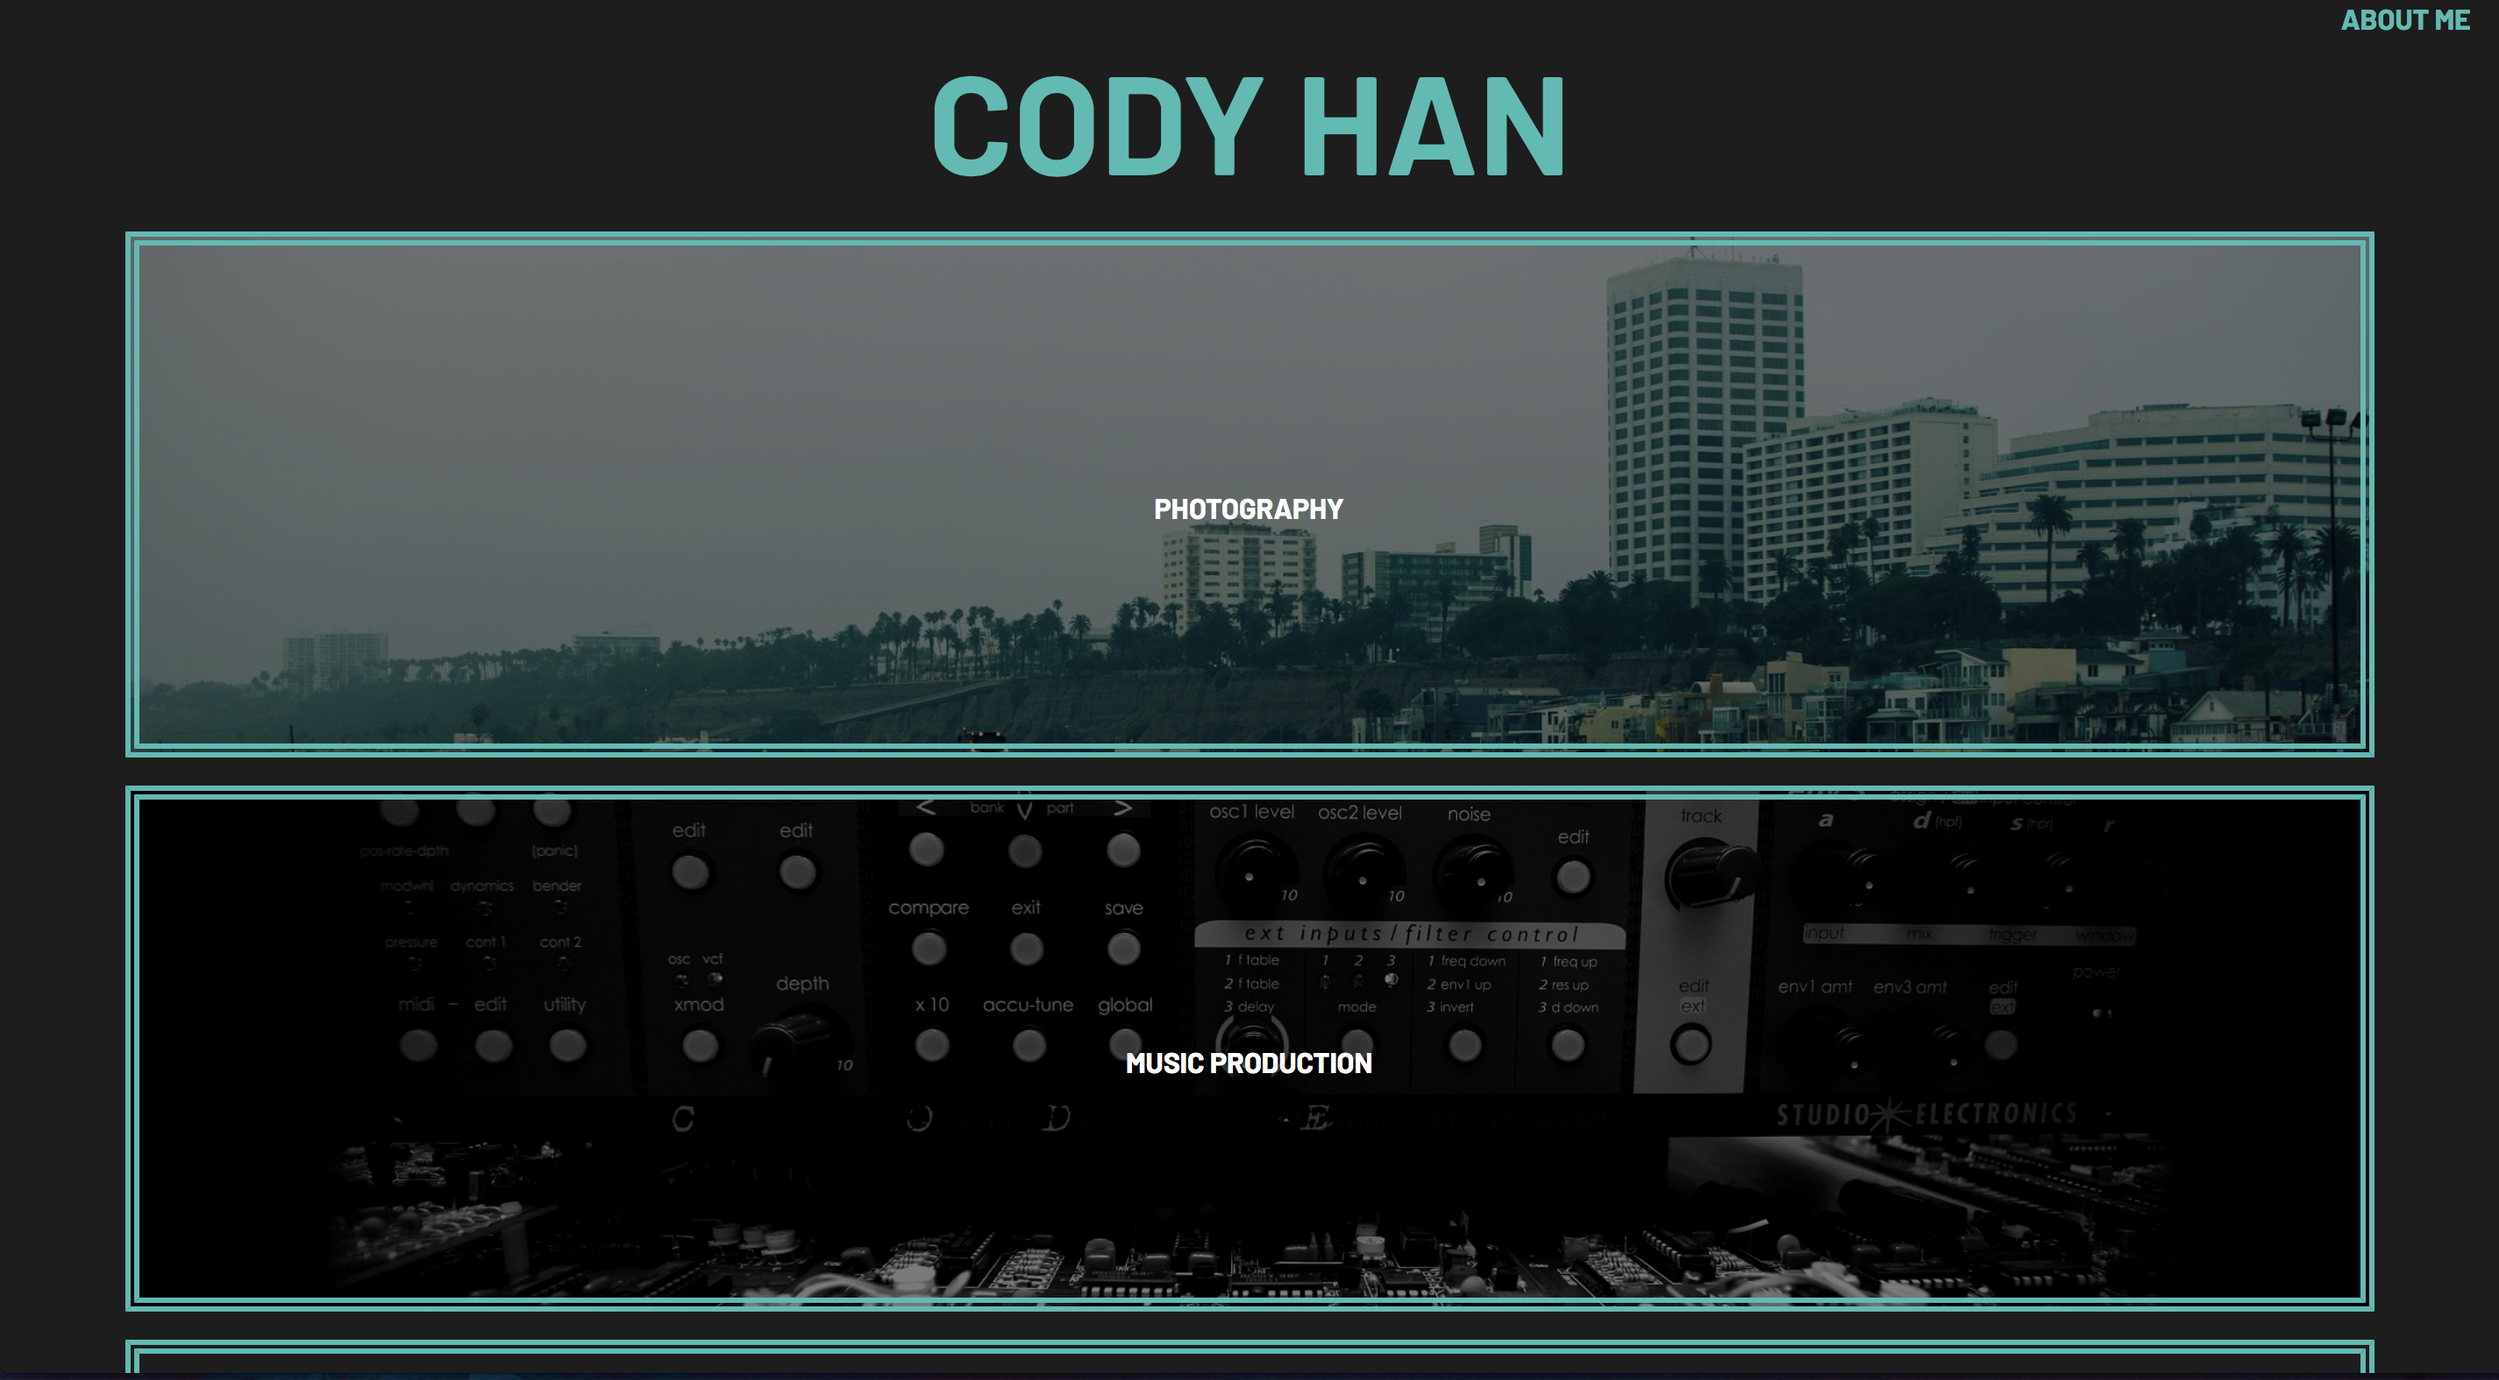
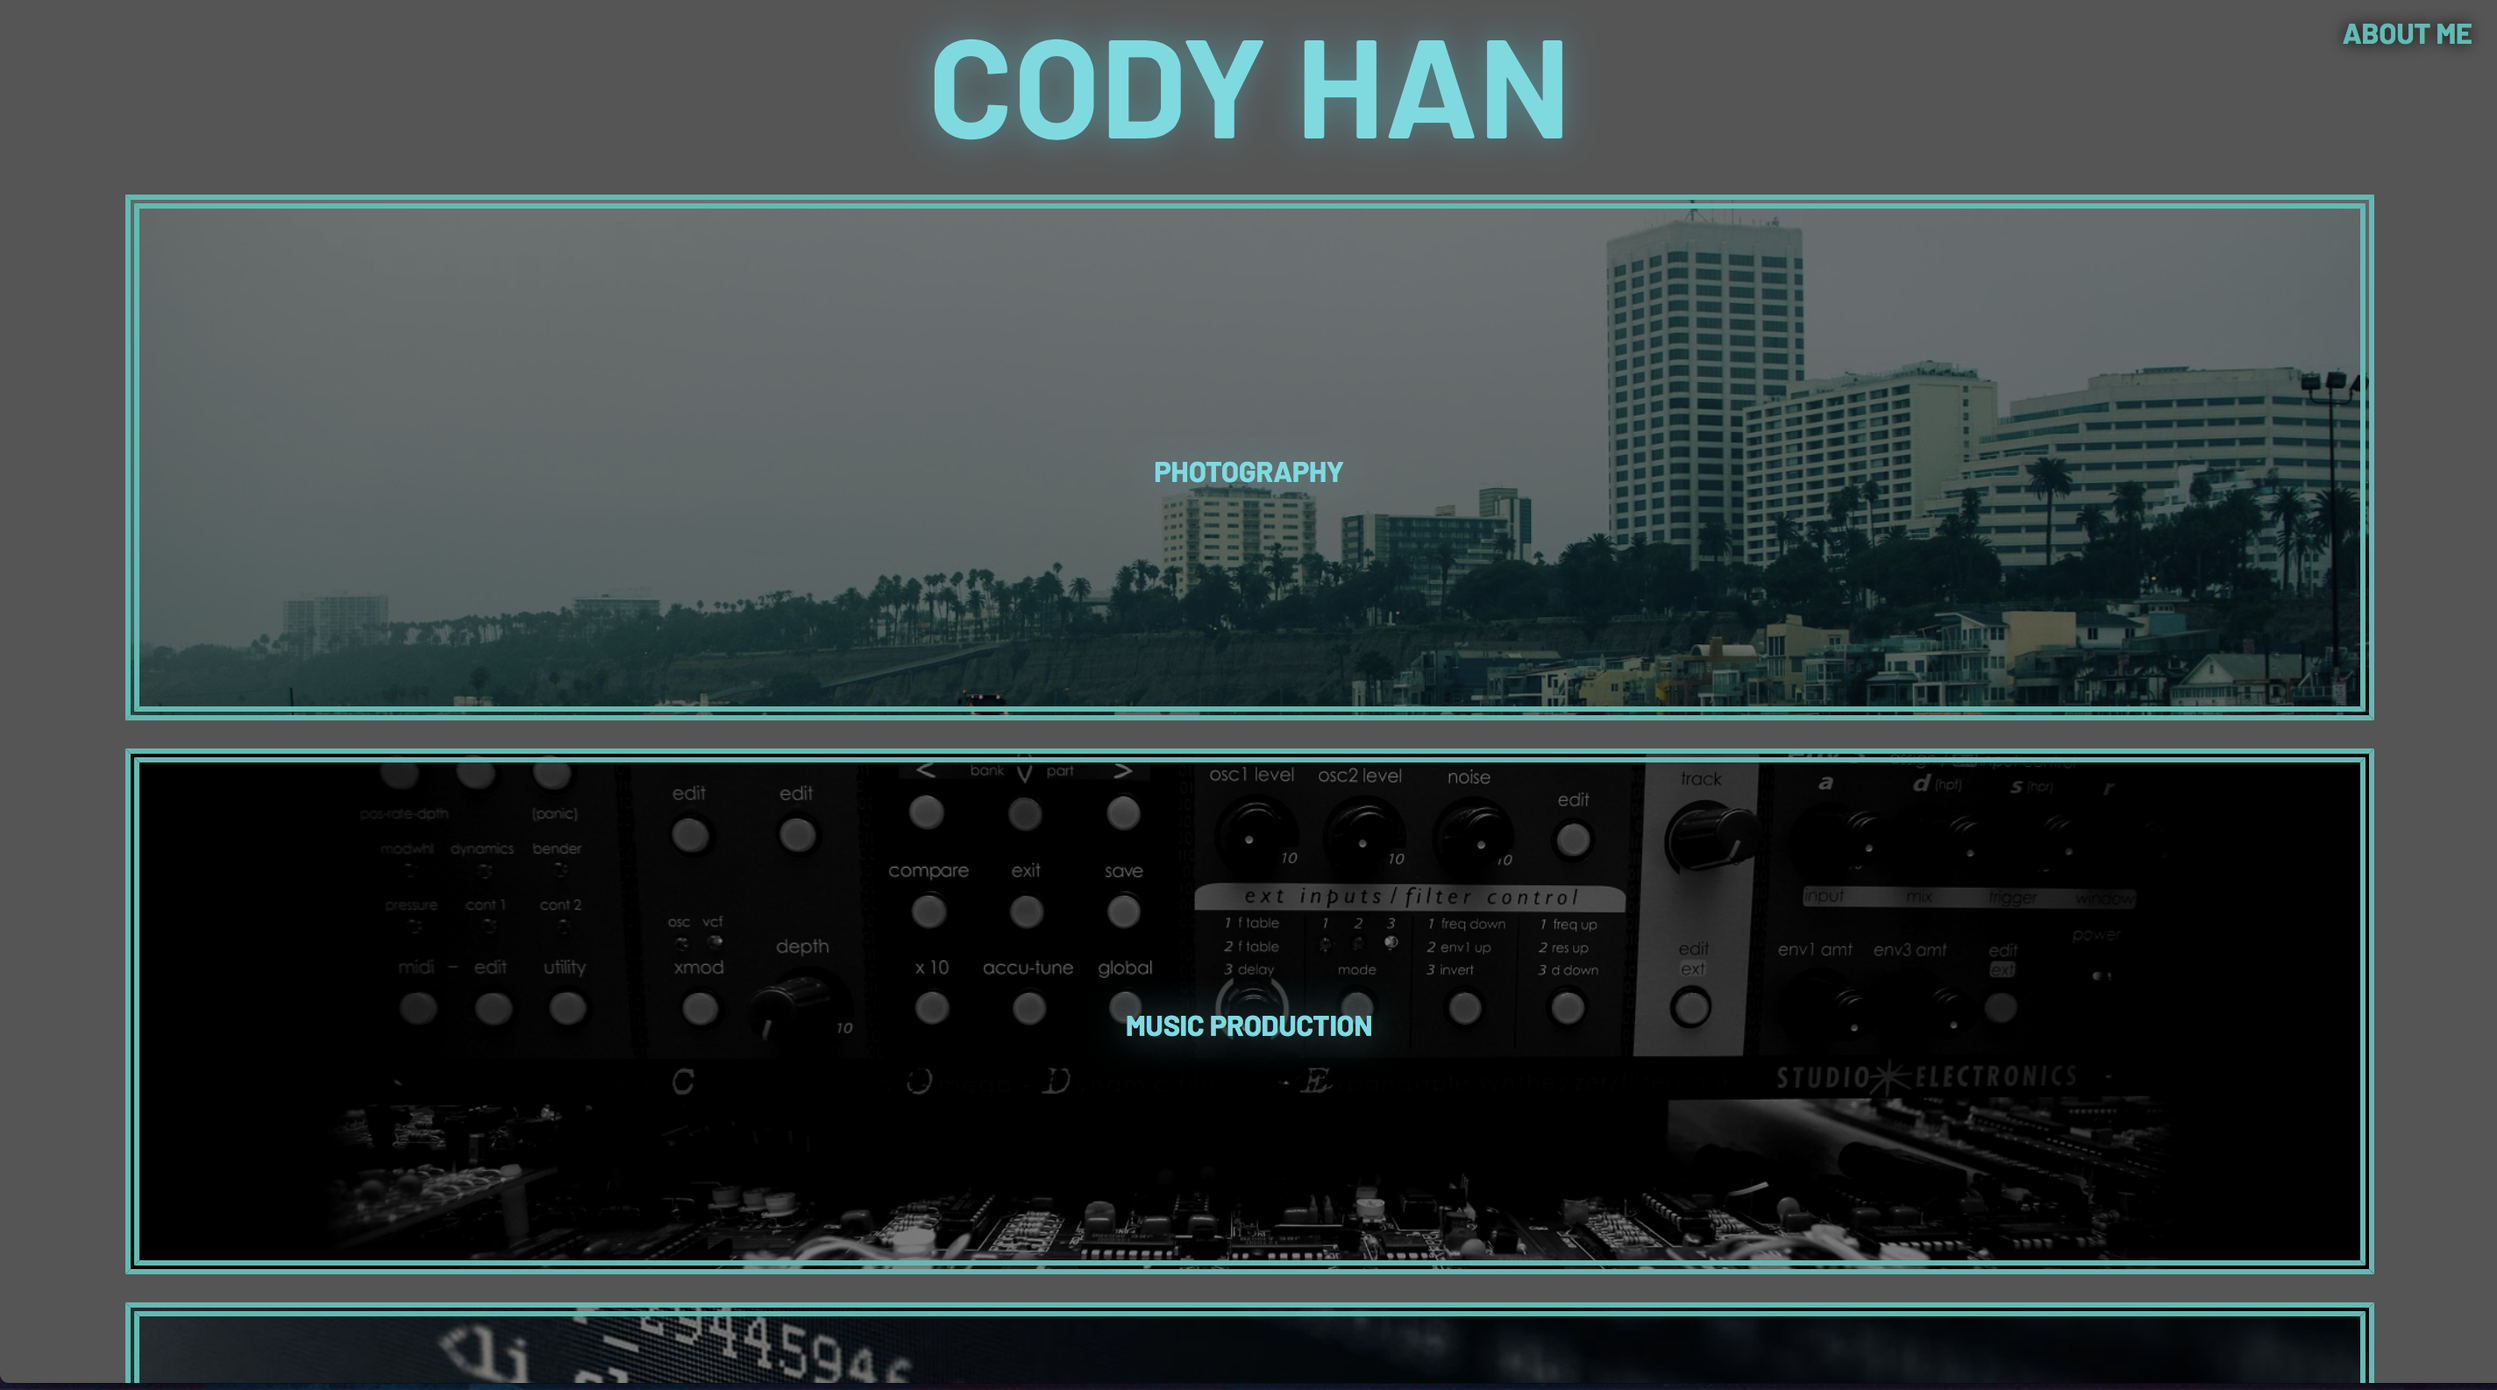
Fixes and More Content
- fixed some responsive issues
- added more things to portfolios

diff --git a/portfolio/music-production.html b/portfolio/music-production.html
@@ -13,20 +13,95 @@
 <script src="../essential/portfolioheader.js"></script>
 
 <main>
+	<div>
+		<p>
+			Tracks are produced in Cubase and FL Studio.
+		</p>
+	</div>
 	<div id="gallery">
 		<div class="song">
-			<iframe width="100%" height="166" scrolling="no" frameborder="no" src="https://w.soundcloud.com/player/?url=https%3A//api.soundcloud.com/tracks/335490801&amp;color=%230f0000&amp;auto_play=false&amp;hide_related=false&amp;show_comments=true&amp;show_user=true&amp;show_reposts=false&amp;show_teaser=true"></iframe>
-<!-- 			<audio controls>
-			  <source src="../audio/fishsong.wav" type="audio/wav">
-			  Your browser does not support the audio tag.
-			</audio> -->
+			<h2>Tron and Stuff</h2>
+			<p>
+			Composed and produced for the game <a href="https://www.youtube.com/watch?v=4HIvHElG1yI">Vector Recoil </a> (developed by Team Platforming and Guns, and won first place in IEEE GameSIG 2017). The Soundcloud version is different than the in game version.
+			</p>
+			<iframe width="100%" height="116" scrolling="no" frameborder="no" src="https://w.soundcloud.com/player/?url=https%3A//api.soundcloud.com/tracks/335490801&amp;color=%230f0000&amp;auto_play=false&amp;hide_related=false&amp;show_comments=true&amp;show_user=true&amp;show_reposts=false&amp;show_teaser=true"></iframe>
 		</div>
 		<div class="song">
-			<iframe width="100%" height="166" scrolling="no" frameborder="no" src="https://w.soundcloud.com/player/?url=https%3A//api.soundcloud.com/tracks/355091831&amp;color=%230f0000&amp;auto_play=false&amp;hide_related=false&amp;show_comments=true&amp;show_user=true&amp;show_reposts=false&amp;show_teaser=true"></iframe>
+			<h2>Fish</h2>
+			<p>
+			Soundtrack for 12FIFTEENStudio's video game <a href="https://www.12fifteenstudios.com/games/">Fish</a>.
+			</p>
+			<iframe width="100%" height="116" scrolling="no" frameborder="no" src="https://w.soundcloud.com/player/?url=https%3A//api.soundcloud.com/tracks/355091831&amp;color=%230f0000&amp;auto_play=false&amp;hide_related=false&amp;show_comments=true&amp;show_user=true&amp;show_reposts=false&amp;show_teaser=true"></iframe>
 		</div>		
 		<div class="song">
-			<iframe width="100%" height="166" scrolling="no" frameborder="no" src="https://w.soundcloud.com/player/?url=https%3A//api.soundcloud.com/tracks/355092752&amp;color=%230f0000&amp;auto_play=false&amp;hide_related=false&amp;show_comments=true&amp;show_user=true&amp;show_reposts=false&amp;show_teaser=true"></iframe>
+			<h2>Home Again</h2>
+			<p>
+			Composed for a film concept.
+			</p>
+			<iframe width="100%" height="116" scrolling="no" frameborder="no" src="https://w.soundcloud.com/player/?url=https%3A//api.soundcloud.com/tracks/355092752&amp;color=%230f0000&amp;auto_play=false&amp;hide_related=false&amp;show_comments=true&amp;show_user=true&amp;show_reposts=false&amp;show_teaser=true"></iframe>
 		</div>
+
+
+		
+		<div class="song">
+			<h2>Space Oddity - String Quartet Rendition</h2>
+			<p>
+			Written for 2 violins, 1 viola, 1 cello, 1 guitar, and 2 singers. Inspired by a very faint background string track in the original David Bowie track.
+			</p>
+			<iframe width="100%" height="116" scrolling="no" frameborder="no" src="https://w.soundcloud.com/player/?url=https%3A//api.soundcloud.com/tracks/237951777&amp;color=%230f0000&amp;auto_play=false&amp;hide_related=false&amp;show_comments=true&amp;show_user=true&amp;show_reposts=false&amp;show_teaser=true"></iframe>
+		</div>		
+		<div class="song">
+			<h2>I Write Sins Not Tragedies - String Triplet Rendition</h2>
+			<p>
+			Written for 2 violins, 1 cello, and guitar and voice. 
+			</p>
+			<iframe width="100%" height="116" scrolling="no" frameborder="no" src="https://w.soundcloud.com/player/?url=https%3A//api.soundcloud.com/tracks/237951140&amp;color=%230f0000&amp;auto_play=false&amp;hide_related=false&amp;show_comments=true&amp;show_user=true&amp;show_reposts=false&amp;show_teaser=true"></iframe>
+		</div>		
+		<div class="song">
+			<h2>Constant Conversations Intro - String Rendition</h2>
+			<p>
+			Violins playing the intro of Constant Conversations by Passion Pit
+			</p>
+			<iframe width="100%" height="116" scrolling="no" frameborder="no" src="https://w.soundcloud.com/player/?url=https%3A//api.soundcloud.com/tracks/229698503&amp;color=%230f0000&amp;auto_play=false&amp;hide_related=false&amp;show_comments=true&amp;show_user=true&amp;show_reposts=false&amp;show_teaser=true"></iframe>
+		</div>		
+		<div class="song">
+			<h2>Let It Grow (Let It Go - Frozen)</h2>
+			<p>
+			I produced and recorded this track for a friend's biology project. 
+			</p>
+			<iframe width="100%" height="116" scrolling="no" frameborder="no" src="https://w.soundcloud.com/player/?url=https%3A//api.soundcloud.com/tracks/154729592&amp;color=%230f0000&amp;auto_play=false&amp;hide_related=false&amp;show_comments=true&amp;show_user=true&amp;show_reposts=false&amp;show_teaser=true"></iframe>
+		</div>		
+		<div class="song">
+			<h2>Benefit of the Doubt - Why Even Bother</h2>
+			<p>
+			Produced and recorded session guitar for the band Benefit of the Doubt.
+			</p>
+			<iframe width="100%" height="116" scrolling="no" frameborder="no" src="https://w.soundcloud.com/player/?url=https%3A//api.soundcloud.com/tracks/154729352&amp;color=%230f0000&amp;auto_play=false&amp;hide_related=false&amp;show_comments=true&amp;show_user=true&amp;show_reposts=false&amp;show_teaser=true"></iframe>
+		</div>		
+		<div class="song">
+			<h2>Benefit of the Doubt - Unspoken</h2>
+			<p>
+			Produced and recorded session guitar for the band Benefit of the Doubt.
+			</p>
+			<iframe width="100%" height="116" scrolling="no" frameborder="no" src="https://w.soundcloud.com/player/?url=https%3A//api.soundcloud.com/tracks/154729351&amp;color=%230f0000&amp;auto_play=false&amp;hide_related=false&amp;show_comments=true&amp;show_user=true&amp;show_reposts=false&amp;show_teaser=true"></iframe>
+		</div>		
+		<div class="song">
+			<h2>Deadmau5 - Strobe (Guitar Rendition)</h2>
+			<p>
+			A rock version of Strobe.
+			</p>
+			<iframe width="100%" height="116" scrolling="no" frameborder="no" src="https://w.soundcloud.com/player/?url=https%3A//api.soundcloud.com/tracks/55987906&amp;color=%230f0000&amp;auto_play=false&amp;hide_related=false&amp;show_comments=true&amp;show_user=true&amp;show_reposts=false&amp;show_teaser=true"></iframe>
+		</div>		
+		<div class="song">
+			<h2>Youngblood Brass Band - Brooklyn (8-bit)</h2>
+			<p>
+			Made a chiptune/8-bit version of Brooklyn by the Youngblood Brass Band.
+			</p>
+			<iframe width="100%" height="116" scrolling="no" frameborder="no" src="https://w.soundcloud.com/player/?url=https%3A//api.soundcloud.com/tracks/47911664&amp;color=%230f0000&amp;auto_play=false&amp;hide_related=false&amp;show_comments=true&amp;show_user=true&amp;show_reposts=false&amp;show_teaser=true"></iframe>
+		</div>
+
+
+
 	</div>
 </main>
 

diff --git a/portfolio/development.html b/portfolio/development.html
@@ -15,27 +15,23 @@
 
 
 <main>
+<div class="row">
 	<section>
 			<div>
 				<a href="https://directions.herokuapp.com">
 				<h2> Mapquest Directions Web App </h2>
 				</a>	
 			</div>
-			<div>	
+			<div>
+			<p> A basic web application (using AngularJS, Express, and Node.js) built around what was originally a class project which provides minimalistic turn by turn directions between two destinations using the <a href="https://developer.mapquest.com/documentation/">Mapquest API.</a> <a href="https://github.com/hodycan/directions"> See Github Repository. </a>
+
+			</p>
+			</div>
+			<div class="thumbnail-container">	
 				<a href="https://directions.herokuapp.com">
 					<img class="thumbnail" src=../images/development/directions.png>
 				</a>
 			</div>
-			<div>
-				<a href="https://github.com/hodycan/directions"> 
-					<h3>Github Repository</h3>
-				</a>
-			</div>
-			<div>
-			<p> A basic web application (using AngularJS, Express, and Node.js) built around what was originally a class project which provides minimalistic turn by turn directions between two destinations using the <a href="https://developer.mapquest.com/documentation/">Mapquest API.</a>
-			</p>
-			</div>
-		<hr>
 	</section>	
 
 	<section>
@@ -44,45 +40,34 @@
 			<h2> This Website </h2>
 			</a>	
 		</div>
-		<div>	
+		<div>
+			<p>My personal online portfolio. Developed with HTML, CSS, and jQuery. <a href="https://github.com/hodycan/hodycan.github.io"> See Github Repository. </a>
+			</p>
+		</div>
+		<div class="thumbnail-container">	
 			<a href="http://codyhan.com">
 				<img class="thumbnail" src=../images/development/website.png>
 			</a>
 		</div>
-		<div>
-			<a href="https://github.com/hodycan/hodycan.github.io"> 
-				<h3>Github Repository</h3>
-			</a>
-		</div>
-			<div>
-			<p>My personal online portfolio. Developed with HTML, CSS, and jQuery.
-			</p>
-		</div>
-		<hr>
 	</section>
+</div>
 
+<div class="row">
 	<section>
 		<div>
 			<a href="https://github.com/hodycan/Simultons">
 			<h2> Simultons </h2>
 			</a>	
 		</div>
-		<div>	
+		<div>
+			<p>A simulation of a variety of objects, or "Simultons", that all behave and are animated differently on a Tkinter canvas. Implemented with Python and Tkinter. <a href="https://github.com/hodycan/Simultons"> See Github Repository. </a>
+			</p> 
+		</div>
+		<div class="thumbnail-container">	
 			<a href="https://github.com/hodycan/Simultons">
 				<img class="thumbnail" src=../images/development/simultons.png>
 			</a>
 		</div>
-		<div>
-			<a href="https://github.com/hodycan/Simultons"> 
-				<h3>Github Repository</h3>
-			</a>
-		</div>
-			<div>
-			<p>A simulation of a variety of objects, or "Simultons", that all behave and are animated differently on a Tkinter canvas. Implemented with Python and Tkinter. 
-			</p>
-
-		</div>
-		<hr>
 	</section>	
 
 	<section>
@@ -91,24 +76,17 @@
 			<h2> Othello </h2>
 			</a>	
 		</div>
-		<div>	
+		<div>
+			<p>Othello, implemented with Python and Tkinter. <a href="https://github.com/hodycan/othello"> See Github Repository </a>
+			</p>
+		</div>
+		<div class="thumbnail-container">	
 			<a href="https://github.com/hodycan/othello">
 				<img class="thumbnail" src=../images/development/othello.png>
 			</a>
 		</div>
-		<div>
-			<a href="https://github.com/hodycan/othello"> 
-				<h3>Github Repository</h3>
-			</a>
-		</div>
-			<div>
-			<p>Othello, implemented with Python and Tkinter.
-			</p>
-
-		</div>
-		<hr>
 	</section>	
-
+</div>
 </main>
 
 <div id="copyright">

diff --git a/css/development.css b/css/development.css
@@ -2,20 +2,29 @@
 	color: yellow;
 }
 
-/*main section {
-	border: 1px dashed white;
-}*/
+main *, main {
+	/*border: 1px dashed white;*/
+}
 
-
-section {
-	text-align: center;
+main {
 	width: 90%;
 	margin: auto;
 }
 
+main div.row {
+	display: inline-block;
+	border-bottom: 1px solid white;
+}
+
+section {
+	box-sizing: border-box;
+	text-align: center;
+	width: 50%;
+	float: left;
+}
+
 section > div {
 	margin: auto;
-	margin-bottom: 1em;
 	width: 80%;
 }
 
@@ -23,8 +32,8 @@ section a > * {
 	display: inline-block;
 }
 
-section div a > * {
-	margin: 0px;
+section div a > h2 {
+	margin: 5px;
 }
 
 section p {
@@ -35,12 +44,28 @@ main a:hover {
 	color: yellow;
 }
 
+div.thumbnail-container {
+	margin-bottom: 10px;
+}
+
 .thumbnail {
     border: 1px solid #eee; /* Gray border */
     border-radius: 5px;  /* Rounded border */
-    padding: 5px; /* Some padding */
-    min-width: 20em;
+    padding: 1px; /* Some padding */
+    min-width: 10em;
     max-width: 400px;
-    width: 80%;
+    width: 10px;
+}
+
+
+@media screen and (max-width: 768px) {
+	section {
+		width: 100%;
+		border-bottom: 1px solid white;
+	}
+
+	main div.row {
+		border-bottom: 0px solid white;
+	}
 }
 

diff --git a/css/photography.css b/css/photography.css
@@ -51,17 +51,21 @@
 	height: 100%;
 	background-color:rgba(0, 0, 0, 0.9);
 	z-index: 99;
+
+	padding: 10px;
 }
 
 
 .image-overlay img {
-	display: block;
-	height: 90%;
-	position: relative;
-	margin: auto;
-	top: 5%;
-
-	/*left: 15%;*/
+	display: inline-block;
+	/*object-fit: contain;*/
+	max-height: 80%;
+	max-width: 80%;
+    margin: 0;
+    position: absolute;
+    top: 50%;
+    left: 50%;
+    transform: translate(-50%, -50%);
 }
 
 /*TODO: RESPONSIVE COLUMNS*/

diff --git a/css/main.css b/css/main.css
@@ -97,7 +97,7 @@ header.home-page-header #about-me {
 	position: absolute;
 }
 
-header.home-page-header h1 {
+header h1 {
 	display: inline-block;
 	margin: 0;
 }
@@ -142,7 +142,7 @@ nav div.nav-links-container {
 	height: 80%;
 }
 
-a.nav-link.active, a.nav-link:hover, 
+a, a.nav-link.active, a.nav-link:hover, 
 #site-title:hover, #about-me:hover, a.menu-link:hover {
     color: yellow;
 }

diff --git a/css/music-production.css b/css/music-production.css
@@ -2,8 +2,8 @@
 	color: yellow;
 }
 
-#gallery {
-	min-height: 300px;
+main > div {
+	/*min-height: 300px;*/
 	max-width: auto;
 	width: 80%;
 
@@ -11,11 +11,15 @@
 	margin-left: 10%;
 	margin-right: 10%;
 
-	text-align: center;
+	/*text-align: center;*/
 	display: block;
 }
 
 div.song {
 	vertical-align: middle;
 	margin: auto;
+}
+
+div.song h2 {
+	margin-bottom: 0px;
 }

diff --git a/portfolio/photography.html b/portfolio/photography.html
@@ -52,7 +52,6 @@ for (i = 1; i <= imageCount; i++) {
 		<img class="photo" src=' +src+'>\
 		</div>';
 	$(".gallery .column:nth-child("+col+")").append(element);
-	console.log("added "+src+" to column "+col)
 	col++;
 	col %= 4;
 } 
